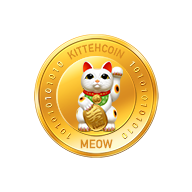
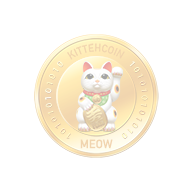
lightened bg image. converted primitives in scope to data objects

diff --git a/www/js/controllers.js b/www/js/controllers.js
@@ -7,9 +7,6 @@ angular.module('app.controllers', []).
 		$scope.save = function() {
 			$log.info('in save():', $scope.wallet);
 			var wallets = settingsService.getObject('wallets');
-			if (!wallets) {
-				wallets = [];
-			}
 
 			wallets.push($scope.wallet);
 			$log.info('wallets:', wallets);
@@ -23,14 +20,10 @@ angular.module('app.controllers', []).
     }).
 	controller('editController', function($scope, $location, $log, settingsService) {
 		$scope.wallets = settingsService.getObject('wallets');
-		if (!$scope.wallets) {
-			$scope.wallets = [];
-		}
 
 		$scope.remove = function(index) {
 			$scope.wallets.splice(index, 1);
 			$log.info('wallets:', $scope.wallets);
-			//settingsService.setObject('wallets', $scope.wallets);
 		}
 
 		$scope.add = function() {
@@ -44,29 +37,30 @@ angular.module('app.controllers', []).
 		}
 	}).
     controller('homeController', function($scope, $rootScope, $location, $log, blockexplorerAPIService, cryptocoinchartsAPIService, utilService, settingsService, customService) {
-		$scope.wallets = settingsService.getObject('wallets');
+		$scope.data = {
+			total: 0, 
+			convertedTotal: 0, 
+			currency: settingsService.getValue('preferredCurrency'),
+			wallets: settingsService.getObject('wallets')
+		};
 
-		if (!$scope.wallets || $scope.wallets.length === 0) {
+		if (!$scope.data.wallets || $scope.data.wallets.length === 0) {
 			$log.info('no wallets, go to addWallet');
 			$location.path('/add');
 		}
 
         $scope.loadData = function() {
-			$scope.balanceTotal = 0;
-			$scope.convertedBalanceTotal = 0;
-			$scope.currency = settingsService.getValue('preferredCurrency');
-			
-			angular.forEach($scope.wallets, function(wallet) {
+			angular.forEach($scope.data.wallets, function(wallet) {
 				blockexplorerAPIService.getBalance(wallet.address).success(function (balance, isError) {
 					if (isError) {
 						wallet.error = 'Error - is wallet address correct?';
 					}
 					wallet.balance = Number(balance);
 					$log.info('balance for', wallet.address, 'is', wallet.balance);
-					$scope.balanceTotal += wallet.balance;
+					$scope.data.total += wallet.balance;
 
-					cryptocoinchartsAPIService.convert($scope.currency, wallet.balance).success(function(price) {
-						$scope.convertedBalanceTotal += Number(price);
+					cryptocoinchartsAPIService.convert($scope.data.currency, wallet.balance).success(function(price) {
+						$scope.data.convertedTotal += Number(price);
 					});
 				});
 			});
@@ -83,19 +77,20 @@ angular.module('app.controllers', []).
 		customService.trackPage('/home');
     }).
     controller('settingsController', function($scope, $rootScope, $log, settingsService, customService) {
-		$scope.preferredCurrency = settingsService.getValue('preferredCurrency');
+		$scope.data = {
+			preferredCurrency: settingsService.getValue('preferredCurrency'),
+			symbols: settingsService.symbols
+		};
 
-		$scope.$watch('preferredCurrency', function() {
-			settingsService.setValue('preferredCurrency', $scope.preferredCurrency);
+		$scope.$watch('data.preferredCurrency', function() {
+			settingsService.setValue('preferredCurrency', $scope.data.preferredCurrency);
 			$log.info('Set preferred currency to', settingsService.getValue('preferredCurrency'));
 		});
-
-		$scope.symbols = settingsService.symbols;
 
 		customService.trackPage('/settings');
     }).
     controller('aboutController', function($scope, utilService, customService) {
-		$scope.version = utilService.getAppVersion();
+		$scope.data = {version: utilService.getAppVersion()};
 
 		customService.trackPage('/about');
     });

diff --git a/www/partials/home.html b/www/partials/home.html
@@ -1,16 +1,16 @@
 <div class="jumbotron">
     <div class="row-fluid">
 		<div class="span12">
-			<span class="text-muted">Total balance:</span> <span class="balance">{{balanceTotal | number:4}}</span> MEOWs
+			<span class="text-muted">Total balance:</span> <span class="balance">{{data.total | number:4}}</span> MEOWs
 		</div>
-		<div class="span12" ng-show="convertedBalanceTotal">
-			<span class="text-muted">That's about </span><span class="balance">{{currencySymbol(currency)}}{{convertedBalanceTotal | number:4}}</span> {{currency}} <span ng-show="convertedBalanceTotal > 0" class="text-muted">(purrr)!</span>
+		<div class="span12">
+			<span class="text-muted">That's about </span><span class="balance">{{currencySymbol(data.currency)}}{{data.convertedTotal | number:4}}</span> {{data.currency}} <span ng-show="data.convertedTotal" class="text-muted">(purrr)!</span>
 		</div>
 	</div>
     <div class="row-fluid">
 		<div class="span12">
 			<!-- ng-repeat... track by wallet.address avoid ngRepeat:dupes error -->
-			<table class="table-balances" ng-repeat="wallet in wallets track by wallet.address">
+			<table class="table-balances" ng-repeat="wallet in data.wallets track by wallet.address">
 				<tr>
 					<td><strong>{{wallet.label}}</strong></td>
 				</tr>

diff --git a/www/js/services.js b/www/js/services.js
@@ -82,8 +82,11 @@ angular.module('app.services', []).
 				if (key && this.store) {
 					var strObj = this.store.get(key);
 					obj = JSON.parse(strObj);
-					$log.info('getObject: ', obj);
+					if (key === 'wallets' && !obj) {
+						obj = []; // return empty list if no wallets have been saved
+					}
 				}
+				$log.info('getObject(). key:', key, ', value:', obj);
 				return obj;
 			},
 
@@ -139,7 +142,6 @@ angular.module('app.services', []).
             if (currency) {
 		        url = url + currency;
             }
-			$log.info('in cccAPIService.convert(). about to call', url);
 
             return {
                 success: function(fn) {

diff --git a/www/partials/about.html b/www/partials/about.html
@@ -4,7 +4,7 @@
 	<div class="row-fluid">
 		<img src="img/KittehCoin_128.png" alt="KittehCoin Balance" />
 		<p>See how meowny KittehCoin you own.</p>
-		<p>Version {{version}}</p>
+		<p>Version {{data.version}}</p>
 		<p>By Drake Emko</p>
 		<p>Your feedback is welcome. Email: <a href="mailto:drakee@gmail.com">drakee@gmail.com</a></p>
 		<p>Donations welcome too! Send to: <strong>KDbtYRiPd6sG7F8oaK2XSLJdJFuDnpGD5d</strong></p>

diff --git a/www/partials/settings.html b/www/partials/settings.html
@@ -6,7 +6,7 @@
 	    <tbody>
 			<tr>
 				<td>Non-Kitteh Currency</td>
-				<td><select ng-model="preferredCurrency" ng-options="symbol for symbol in symbols"></select></td>
+				<td><select ng-model="data.preferredCurrency" ng-options="symbol for symbol in data.symbols"></select></td>
 			</tr>
 	    </tbody>
 	</table>
